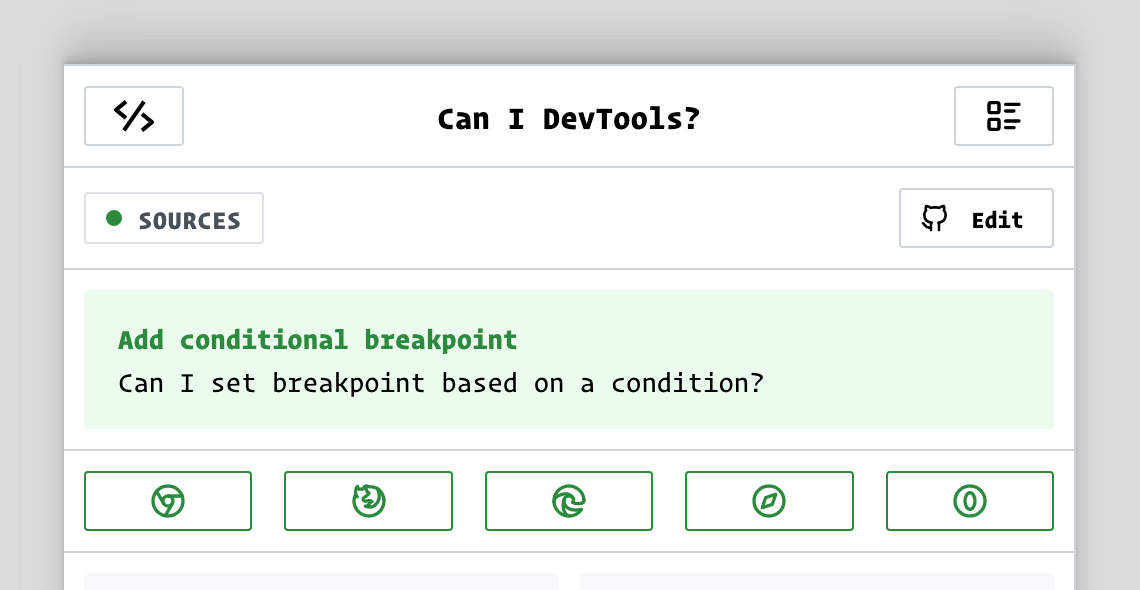
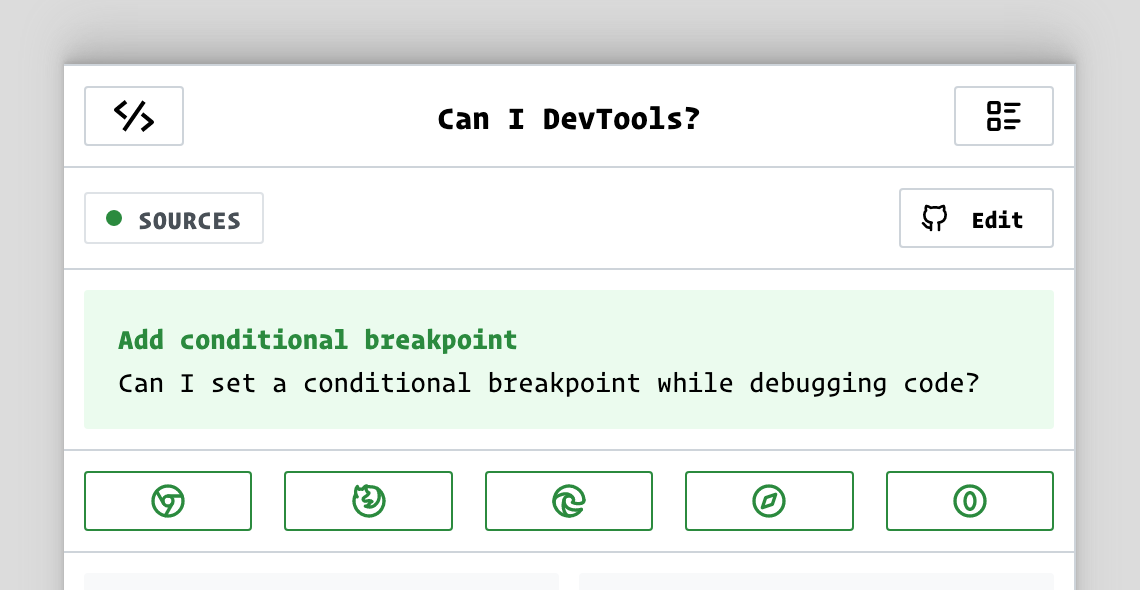
added share & newsletter links

Changed region(s): [[0.2456, 0.6102, 0.8596, 0.6712]]

diff --git a/README.md b/README.md
@@ -23,7 +23,7 @@
  1. Inspect the element > Look for ".cls" button in the Styles pane next to the Filter field.
 2. Click the button and search for the existing class names to add to the element.
 ## 3. Add conditional breakpoint 
- Can I set breakpoint based on a condition? 
+ Can I set a conditional breakpoint while debugging code? 
 - [Chrome](https://canidev.tools/add-conditional-breakpoint/chrome) 
  1. In **Sources**, right click the line number and select "Add a conditional breakpoint..."
 2. Input the conditional expression on which the execution should pause, and press `Enter`.
